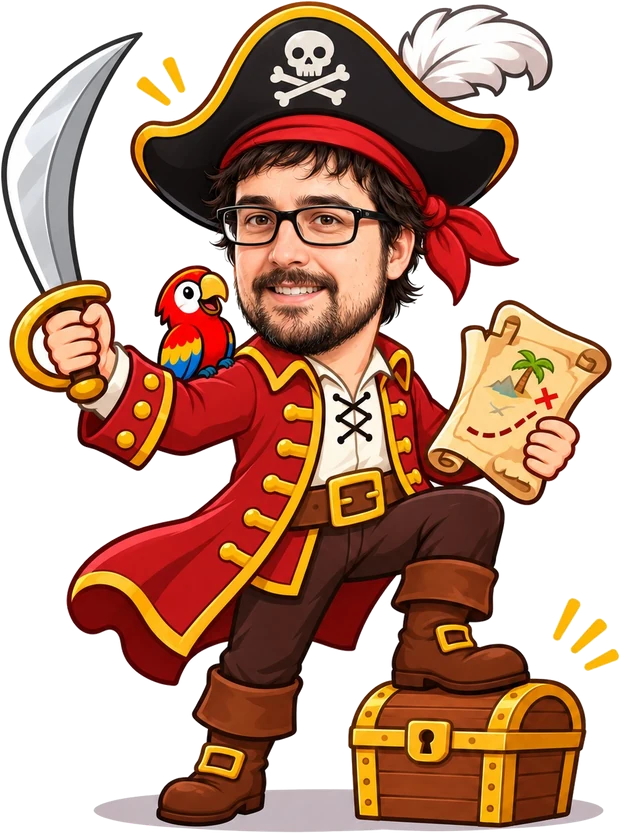
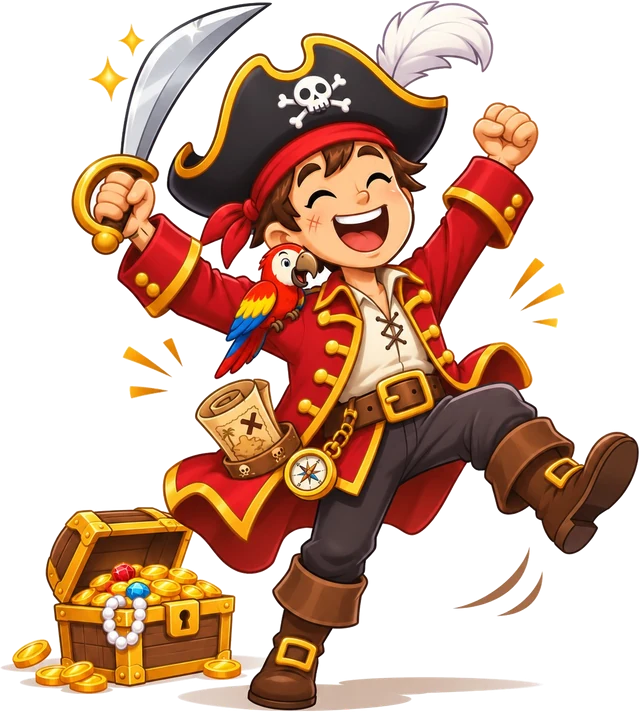
Web: nuevas imágenes del pirata en las pantallas de victoria y derrota
- pirate-happy.webp y pirate-sad.webp sustituidas por las ilustraciones nuevas, sin
  fondo y sin recortar ni deformar (640x712 y 640x646)
- cada escena sigue la proporción de su imagen; la derrota, algo más baja para quedar
  al lado del título en escritorio; lágrimas animadas en los ojos del nuevo dibujo

diff --git a/web/style.css b/web/style.css
@@ -1760,7 +1760,13 @@ input[type="radio"] {
 .pirate-stage {
   position: relative;
   height: min(62vh, 520px);
-  aspect-ratio: 620 / 833;
+  aspect-ratio: 640 / 712; /* the victory picture's own proportions */
+}
+
+/* The defeat picture is squarer: its stage follows it, so it is never squashed or cut. */
+.pirate-stage.cry {
+  aspect-ratio: 640 / 646;
+  height: min(54vh, 460px); /* wider than the victory picture: a little lower, so the title fits beside it */
 }
 
 .pirate-stage img {
@@ -2181,23 +2187,24 @@ input[type="radio"] {
   animation: tear 1.25s ease-in infinite;
 }
 
+/* under the closed eyes of the defeat picture (pirate-sad.webp) */
 .tear.t1 {
-  left: 31%;
-  top: 41%;
+  left: 53%;
+  top: 39%;
 }
 .tear.t2 {
-  left: 33%;
-  top: 42%;
+  left: 55%;
+  top: 40%;
   animation-delay: 0.62s;
 }
 .tear.t3 {
-  left: 54%;
-  top: 40%;
+  left: 63%;
+  top: 39%;
   animation-delay: 0.3s;
 }
 .tear.t4 {
-  left: 56%;
-  top: 41%;
+  left: 65%;
+  top: 40%;
   animation-delay: 0.95s;
 }
 
@@ -2348,7 +2355,8 @@ progress {
     --cell: min(36px, calc((100vw - 114px) / var(--size, 10)));
   }
 
-  .pirate-stage {
+  .pirate-stage,
+  .pirate-stage.cry {
     height: min(40vh, 360px);
   }
 }
